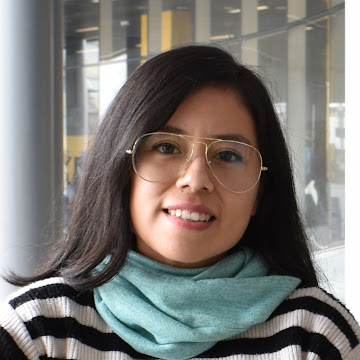
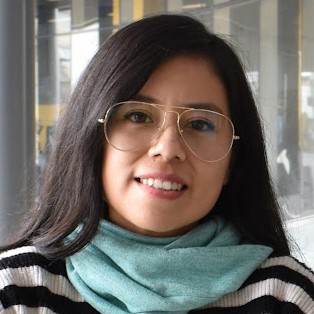
Update UI styles

diff --git a/assets/css/main.css b/assets/css/main.css
@@ -1,23 +1,28 @@
 * {
-	font-family: 'Montserrat', sans-serif;
-	letter-spacing: 4px;
+	font-family: 'Roboto', sans-serif;
+	letter-spacing: 2px;
 }
 
 body {
 	background-color: #ffffff;
 }
 
+hr {
+	margin-top: 16px;
+}
+
 hr.hr-title {
 	border-top: 1px solid #F7EF7E;
 	width: 5rem;
-	margin-bottom: 8%;
+	margin-bottom: 6%;
 }
 
 h2 {
-	font-family: 'Montserrat', sans-serif;
+	font-family: 'Roboto', sans-serif;
 	text-transform: uppercase;
-	letter-spacing: 4px;
 	font-weight: bold;
+	font-size: 24px;
+	color: #444444;
 }
 
 /*Deslizar elementos
@@ -100,9 +105,8 @@ nav.navbar-inverse {
   text-transform: uppercase;
   font-size: 11px !important;
   line-height: 1.42857143 !important;
-  letter-spacing: 2px;
 	/*background-color: rgba(34, 34, 34, 0.8);*/
-	background-color: #333;
+	background-color: #333 !important;
 	border: none;
 }
 
@@ -112,40 +116,45 @@ nav.navbar-inverse {
 
 .navbar-inverse .navbar-nav li a:hover {
 	color: #F7EF7E;
+	background-color: #333 !important;
 }
 
 .navbar-inverse .navbar-nav .active a {
-	background-color: rgba(0, 0, 0, 0.5);
+	/*background-color: rgba(0, 0, 0, 0.5);*/
+	background-color: #333 !important;
+	color: #F7EF7E;
 }
 
-.text-typing{
+.navbar-inverse .navbar-nav .active a:hover {
+	background-color: #333 !important;
+}
+
+.text-typing {
   color: #ffffff;
-  font-family: 'Montserrat', sans-serif;
+  font-family: 'Roboto', sans-serif;
 	text-transform: uppercase;
 	font-size: 18px;
-	letter-spacing: 4px;
+	letter-spacing: 5px;
   overflow:hidden;
   white-space:nowrap;
-  width: 9.5em;
+  width: 14em;
   -webkit-animation: type 1s steps(6), blink 1s linear infinite;
-  margin: auto;
-	margin-bottom: 9em;
-  padding:0;
+  margin: 0;
   border-right: .1em solid;
   line-height: 2em;
+	text-align: left;
 }
 
 h1.title{
   color: #ffffff;
   font-size: 100px;
-	font-family: 'Montserrat', sans-serif;
-	letter-spacing: 20px;
+	font-family: 'Activ', sans-serif;
 	font-weight: bold;
 }
 
 .text-typing:nth-child(2){
   -webkit-animation: type2 3s steps(21), blink 1s linear infinite;
-	padding: 0;
+	padding:0 0 0 3px;
 }
 
 @keyframes type{
@@ -169,15 +178,18 @@ h1.title{
 }
 
 #home {
+	/*
   height: 662px;
-  padding: 0;
-	background-color: #FFFFFF;
+	*/
+  padding: 9em 0;
+	background-color: #333;
+	/*
   background-image: url(../img/fondo4.png);
   background-position: -10% 100%;
   background-size: cover;
   background-repeat: no-repeat;
+	*/
   margin-bottom: 0;
-  padding-top: 16em;
 	-webkit-animation: animatedBackground 2s linear infinite;
 }
 
@@ -190,10 +202,10 @@ h1.title{
 }
 
 #home h1 {
-	font-family: 'Gruppo', sans-serif;
-	font-size:6vw;
+	font-family: 'Roboto', sans-serif;
+	font-size: 4vw;
 	color: #ffffff;
-	letter-spacing: 0.10em;
+	text-align: left;
 }
 
 #home a {
@@ -217,19 +229,19 @@ h1.title{
 
 #about p {
   font-family: 'Roboto', sans-serif;
-  letter-spacing: 1.5px;
   font-size: 16px;
 	color: #333131;
 }
 
-#about .img-circle {
+#about .img-profile {
 	/*
 	-webkit-filter: grayscale(100%);
 	filter: grayscale(100%);
 	*/
 	float: right;
 	/*box-shadow: rgba(0, 0, 0, 0.2) 0px 60px 40px -7px;*/
-	box-shadow: rgba(0, 0, 0, 0.16) 0px 3px 6px, rgba(0, 0, 0, 0.23) 0px 3px 6px;
+	box-shadow: 0px 0px 40px 0px rgba(1, 6, 66, 0.1), 0px 0px 0px 0px rgba(0, 0, 0, 0.20);
+	border-radius: 36px;
 }
 
 /*skills*/
@@ -270,8 +282,8 @@ h1.title{
 	background-color: #ECEFF6;
 }
 
-#portfolio hr {
-  margin-bottom: 4%;
+#portfolio h3 {
+  color: #444444;
 }
 
 #portfolio .btn {
@@ -289,6 +301,7 @@ h1.title{
 	color: #FFFFFF;
 	font-size: 14px;
 	padding: 12px 24px;
+	letter-spacing: 2px;
 }
 
 #portfolio .btn:hover {
@@ -309,23 +322,22 @@ h1.title{
 
 #portfolio .item-img {
 	cursor: pointer;
-	background-size: cover;
+	background-size: 100%;
 	background-position: center;
-	border-radius: 12px;
+	border-radius: 36px;
 	height: 300px;
 	transition: all 0.4s ease 0s;
-	box-shadow: 0px 0.1px 0.3px 0px rgba(0, 0, 0, 0.10), 0px 1px 2px 0px rgba(0, 0, 0, 0.20);
+	box-shadow: 0px 0px 40px 0px rgba(52, 60, 175, 0.1), 0px 0px 0px 0px rgba(0, 0, 0, 0.20);
 }
 
 #portfolio .item-img:hover {
 	transition: all 0.4s ease 0s;
-	box-shadow: 0px 0.1px 0.3px 0px rgba(0, 0, 0, 0.10), 0px 4px 8px 0px rgba(0, 0, 0, 0.20);
+	background-size: 102%;
 }
 
 
 #portfolio p {
 	color: #333;
-	letter-spacing: 2px;
 }
 
 #portfolio a {
@@ -371,7 +383,6 @@ div#labcar {
 
 #acknowledgments h4, p {
 	margin: 2rem auto;
-	letter-spacing: 2px;
 }
 
 /*Contact*/
@@ -425,13 +436,17 @@ footer.container-fluid {
 }
 
 footer h6 {
-	letter-spacing: 2px;
 	line-height: 2rem;
 }
 
 @media only screen and (max-width: 1024px) {
 	#home{
 		height: auto;
+	}
+
+	#portfolio .item-img {
+		background-repeat: no-repeat;
+		height: 212px;
 	}
 }
 
@@ -441,7 +456,15 @@ footer h6 {
 	}
 
 	header #nav-logo {
-		margin-left: 12px;
+		margin-left: 24px;
+	}
+
+	.navbar-inverse .navbar-nav li a {
+		padding: 12px 24px;
+	}
+
+	.text-typing {
+		width: 14.5em;
 	}
 
 	#skills, #portfolio, #acknowledgments, #contact {
@@ -453,6 +476,7 @@ footer h6 {
 		background-image: none;
 	  background-position: center;
 		padding-top: 2em;
+		padding-bottom: 0;
 		margin-top: 3em;
 	}
 
@@ -498,12 +522,14 @@ footer h6 {
 
 	#portfolio .item {
 		margin: 3rem auto;
-		padding-left: 30px;
-		padding-right: 30px;
+		padding-left: 24px;
+		padding-right: 24px;
 	}
 
 	#portfolio .item-img {
 		margin-top: 1em;
+		background-repeat: no-repeat;
+		height: 204px;
 	}
 
 	#portfolio .btn {
@@ -512,7 +538,6 @@ footer h6 {
 
 	#portfolio p {
 		font-size: 1.5rem;
-		letter-spacing: 2px;
 	}
 
 	#portfolio .container .row {
@@ -537,13 +562,13 @@ footer h6 {
 		padding: 2em 0;
 	}
 
-	#contact p {
-		letter-spacing: 0.1rem;
-	}
-
 	#contact i {
 		font-size: 2.5em;
 		margin: 0 16px;
+	}
+
+	#contact .glyphicon-chevron-up {
+		font-size: 1em;
 	}
 
 	#footer h6 {

diff --git a/index.html b/index.html
@@ -43,13 +43,17 @@
       </nav>
     </header>
     <div id="home">
-			<div class="row">
-				<div class="col-xs-12 text-center">
-					<h1>Wendy Reyes</h1>
-					<h2 class="text-typing">UX Designer</h2>
-					<a href="#about" class="hidden-xs"><i class="fa fa-angle-double-down" aria-hidden="true"></i></a>
-				</div>
-			</div>
+      <div class="container">
+        <div class="row">
+          <div class="col-xs-12 text-center">
+            <h1>Hi. I'm Wendy Reyes</h1>
+            <h2 class="text-typing">Product Designer</h2>
+            <!--
+            <a href="#about" class="hidden-xs"><i class="fa fa-angle-double-down" aria-hidden="true"></i></a>
+            -->
+          </div>
+        </div>
+      </div>
     </div>
     <div id="about">
       <div class="container slideanim">
@@ -70,7 +74,7 @@
 						<p>My effective communication skills and collaborative approach allow for excellent synergy with multidisciplinary teams, including graphic designers, developers and other team members.<span>"</span></p>
 					</div>
 					<div class="col-xs-12 col-md-6 hidden-xs">
-						<img src="assets/img/perfil.jpg" alt="Imagen del perfil" class="img-responsive img-circle">
+						<img src="assets/img/perfil.jpg" alt="Imagen del perfil" class="img-responsive img-profile">
 					</div>
 				</div>
 			</div>
@@ -218,7 +222,7 @@
 			</div>
 		</div>
     <footer class="container-fluid text-center">
-      <h6>Copyright &copy; 2017 - Wendy Reyes Santana</h6>
+      <h6>Copyright &copy; 2024 - Wendy Reyes Santana</h6>
     </footer>
     <script src="assets/js/jquery-3.2.1.min.js" charset="utf-8"></script>
     <script src="assets/js/bootstrap.min.js" charset="utf-8"></script>
